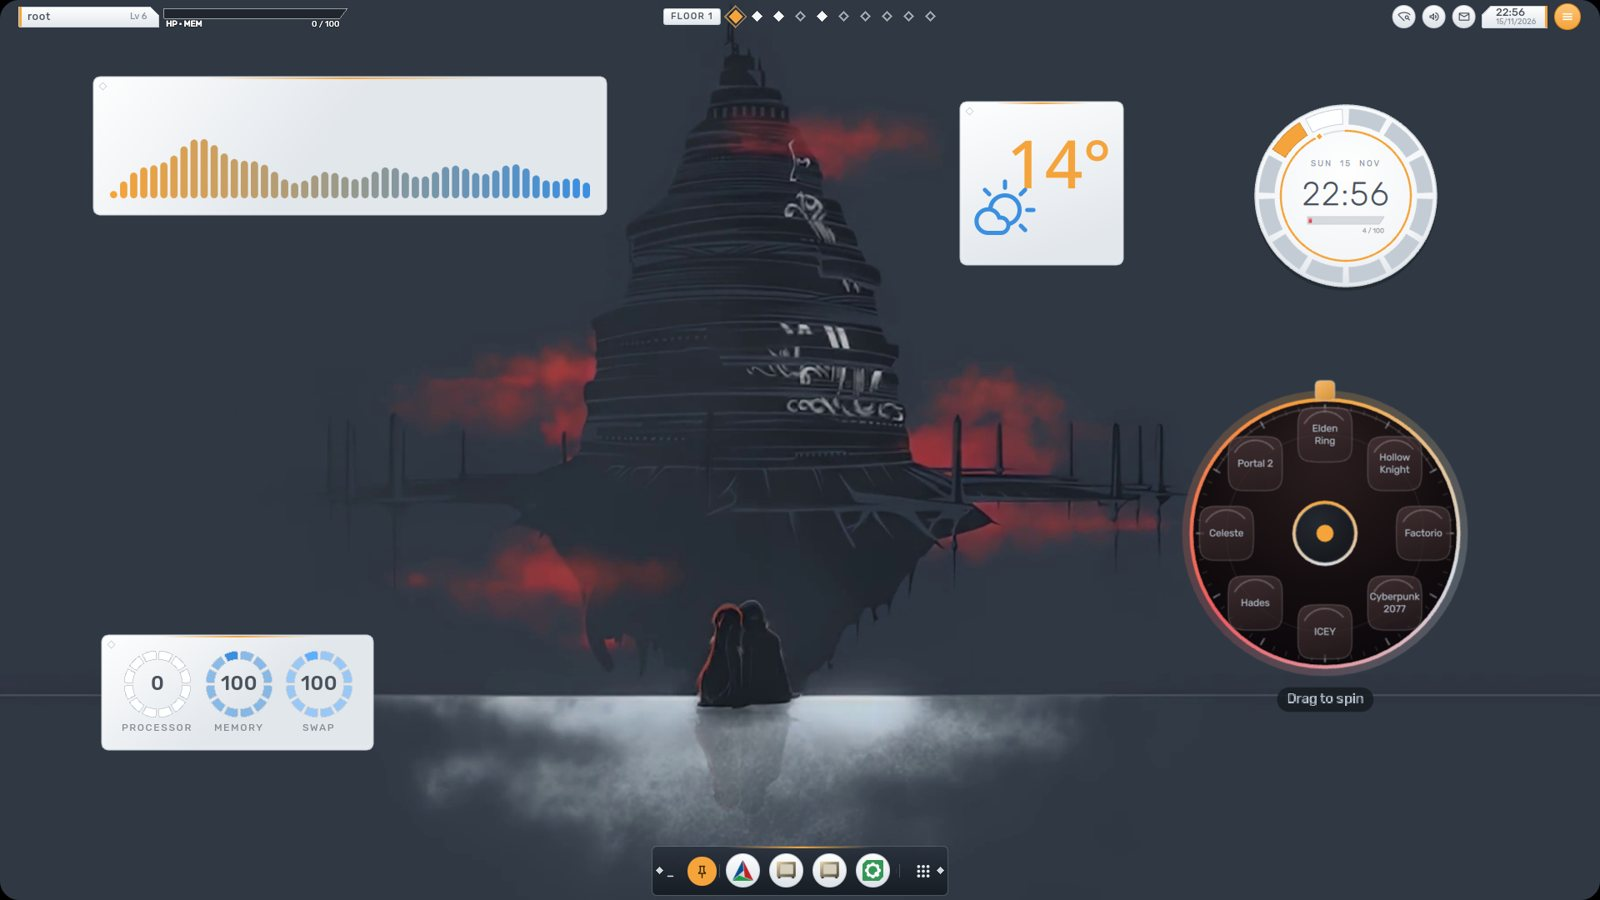
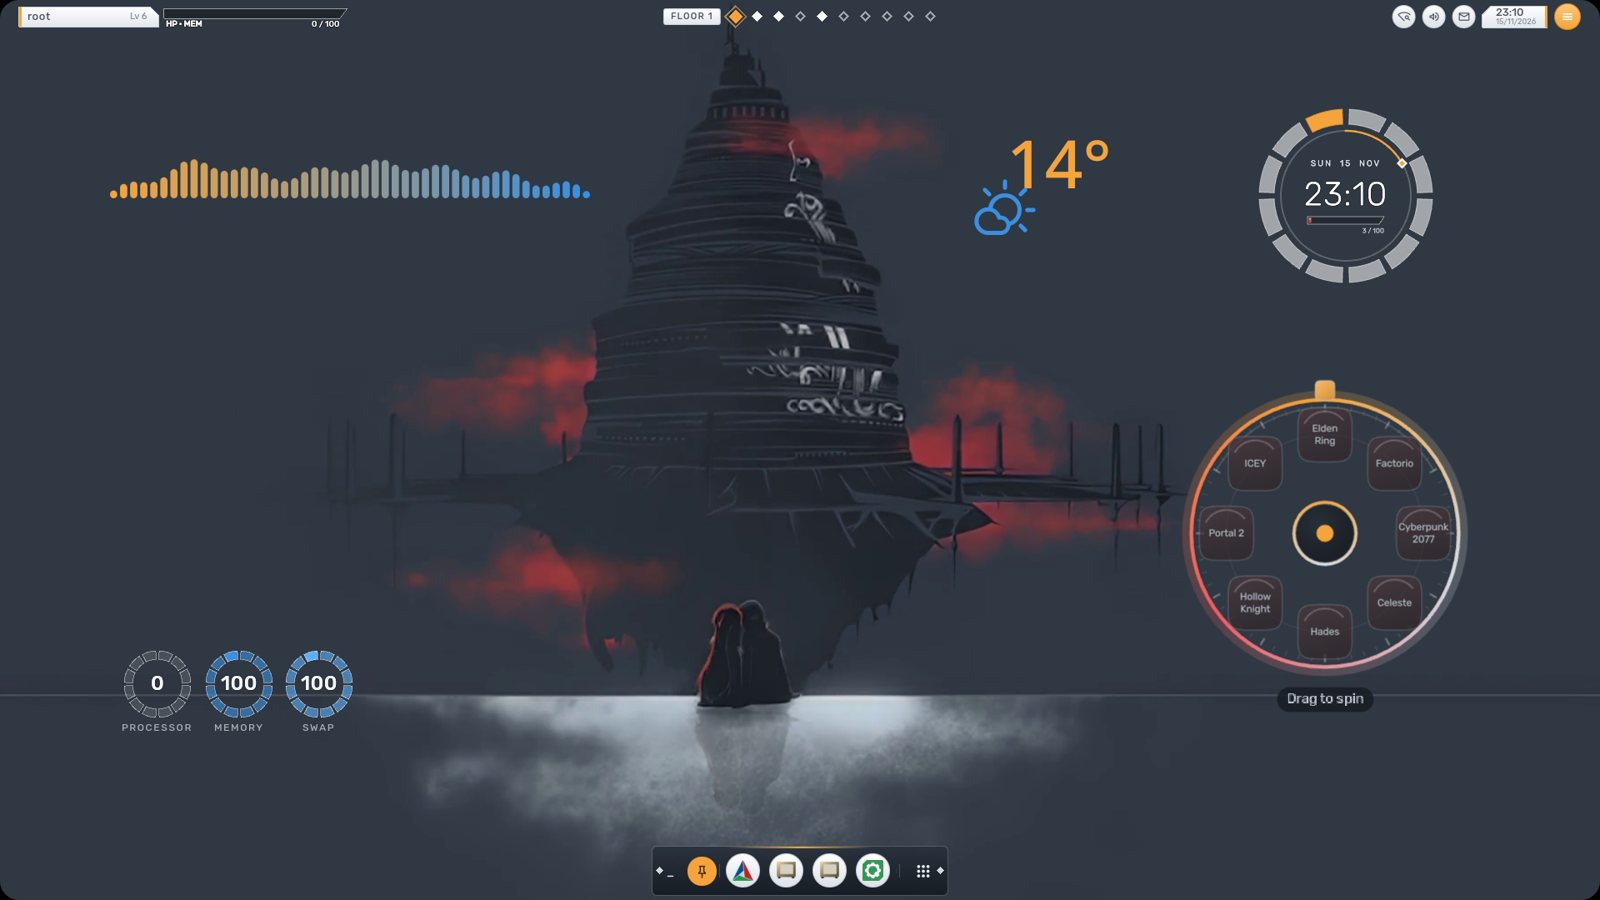
Sword Art Online: the desktop widgets have no background
The widgets stand on the wallpaper like the game's HUD: no card behind the
gauges, spectrum, weather, lyrics or now playing, no disc behind the clock (its
menu tiles and seconds ring are see-through, the time in white), and the
revolver is only its ring, the wallpaper showing through it. Text is the HUD's
white with a faint outline.

Claude-Session: https://claude.ai/code/session_01NkaHfjJdE9Sxe51UTa4nH1

diff --git a/dots/.config/quickshell/ii/modules/ii/background/widgets/clock/ThemeClock.qml b/dots/.config/quickshell/ii/modules/ii/background/widgets/clock/ThemeClock.qml
@@ -17,7 +17,7 @@ import "../revolver/RevolverStyles.js" as Styles
  *          hand, the day above the centre and the time in light digits below it
  *   silence  a black face with a fine red rim that catches light at three and nine, faint dots for the hours,
  *          needle hands, a red hairline for the seconds, an eye with a red iris in the middle, the date below it
- *   sao    Sword Art Online's menu as a dial: a silver disc ringed by twelve menu tiles, the hour's tile lit orange
+ *   sao    Sword Art Online's menu as a dial, on the wallpaper with no face behind it: twelve menu tiles round it, the hour's tile lit orange
  *          and the ones before it filled in, a fine ring that fills with the seconds, an orange diamond riding it,
  *          the time in the middle in the menu's grey, the day above it, and under it the day as a slanted HP bar
  *          that runs green, yellow, then red as the day goes
@@ -521,37 +521,10 @@ Item {
             anchors.fill: parent
             visible: face.kind === "sao"
 
-            readonly property color plate: "#F4F6F8"
-            readonly property color plateEdge: "#C9D0D8"
-            readonly property color ink: "#4A525C"
-            readonly property color inkDim: "#8A939D"
             readonly property color orange: "#F5A43B"
             readonly property int hour12: face.now.getHours() % 12
             // How much of the day is left, for the HP bar.
             readonly property real hp: 1 - (face.now.getHours() * 60 + face.now.getMinutes()) / 1440
-
-            Shape {
-                anchors.fill: parent
-                // A soft shadow, then the silver disc.
-                ShapePath {
-                    strokeWidth: -1
-                    fillColor: face.withAlpha("#000000", 0.22)
-                    PathSvg { path: Styles.circle(face.c, face.c + 4, 110) }
-                }
-                ShapePath {
-                    strokeWidth: 1.4
-                    strokeColor: sao.plateEdge
-                    fillGradient: RadialGradient {
-                        centerX: face.c; centerY: face.c - 30
-                        centerRadius: 150
-                        focalX: face.c; focalY: face.c - 30
-                        GradientStop { position: 0.0; color: "#FFFFFF" }
-                        GradientStop { position: 0.7; color: sao.plate }
-                        GradientStop { position: 1.0; color: "#DCE2E8" }
-                    }
-                    PathSvg { path: Styles.circle(face.c, face.c, 109) }
-                }
-            }
 
             // The twelve menu tiles: the hour's lit orange, the ones before it filled in grey.
             Repeater {
@@ -564,8 +537,8 @@ Item {
                     anchors.fill: parent
                     ShapePath {
                         strokeWidth: 1
-                        strokeColor: tile.now ? Qt.darker(sao.orange, 1.15) : sao.plateEdge
-                        fillColor: tile.now ? sao.orange : tile.past ? "#C3CBD4" : "#FFFFFF"
+                        strokeColor: tile.now ? Qt.darker(sao.orange, 1.15) : face.withAlpha("#FFFFFF", 0.5)
+                        fillColor: tile.now ? sao.orange : tile.past ? face.withAlpha("#FFFFFF", 0.55) : face.withAlpha("#FFFFFF", 0.1)
                         joinStyle: ShapePath.RoundJoin
                         PathSvg { path: Styles.band(face.c, face.c, 86, 104, -90 + tile.index * 30 + 2.4, -90 + (tile.index + 1) * 30 - 2.4) }
                     }
@@ -577,7 +550,7 @@ Item {
                 // The seconds ring: a fine track, filled orange with the seconds (the minutes without them).
                 ShapePath {
                     strokeWidth: 2
-                    strokeColor: face.withAlpha(sao.inkDim, 0.25)
+                    strokeColor: face.withAlpha("#FFFFFF", 0.22)
                     fillColor: "transparent"
                     PathSvg { path: Styles.circle(face.c, face.c, 78) }
                 }
@@ -606,7 +579,9 @@ Item {
                 x: face.c - width / 2
                 y: 70
                 text: Qt.formatDate(face.now, "ddd  d  MMM").toUpperCase()
-                color: sao.inkDim
+                color: "#D5DDE6"
+                style: Text.Outline
+                styleColor: face.withAlpha("#000000", 0.3)
                 font.family: face.fontFamily
                 font.pixelSize: 10
                 font.letterSpacing: 2
@@ -615,7 +590,9 @@ Item {
                 x: face.c - width / 2
                 y: face.c - height / 2 - 2
                 text: face.pad(face.now.getHours()) + ":" + face.pad(face.now.getMinutes())
-                color: sao.ink
+                color: "#FFFFFF"
+                style: Text.Outline
+                styleColor: face.withAlpha("#000000", 0.3)
                 font.family: face.fontFamily
                 font.pixelSize: 40
                 font.weight: Font.Light
@@ -633,8 +610,8 @@ Item {
                     anchors.fill: parent
                     ShapePath {
                         strokeWidth: 1
-                        strokeColor: sao.plateEdge
-                        fillColor: face.withAlpha("#4A525C", 0.18)
+                        strokeColor: face.withAlpha("#FFFFFF", 0.5)
+                        fillColor: face.withAlpha("#000000", 0.25)
                         PathSvg { path: "M 0 0 L 92 0 L 86 9 L 0 9 Z" }
                     }
                 }
@@ -651,7 +628,7 @@ Item {
                 x: face.c + 46 - width
                 y: 152
                 text: Math.round(sao.hp * 100) + " / 100"
-                color: sao.inkDim
+                color: "#D5DDE6"
                 font.family: face.fontFamily
                 font.pixelSize: 8
             }

diff --git a/dots/.config/quickshell/ii/modules/ii/background/widgets/revolver/RevolverStyles.js b/dots/.config/quickshell/ii/modules/ii/background/widgets/revolver/RevolverStyles.js
@@ -22,9 +22,10 @@ var STYLES = {
     // ticks that turn with it, dark glass app-icon chambers (the live one lit ember), and a neon ring round the hub.
     "neo":     { id: "neo", drum: "neo", chamber: "squircle", chamberSize: 46, orbit: 80, names: true,
                  hub: "neo", hammer: "pill", glow: 0.55, waves: 0, statusLabel: true },
-    // Sword Art Online: the same smoked disc, its ring running the menu's orange into crimson and silver.
+    // Sword Art Online: HyperNeo's ring with no disc inside it (bare), so the wallpaper shows through, running the
+    // menu's orange into crimson and silver.
     "sao":     { id: "sao", drum: "neo", chamber: "squircle", chamberSize: 46, orbit: 80, names: true,
-                 hub: "neo", hammer: "pill", glow: 0.55, waves: 0, statusLabel: true, third: "#D5DDE6" },
+                 hub: "neo", hammer: "pill", glow: 0.55, waves: 0, statusLabel: true, third: "#D5DDE6", bare: true },
     // The anime themes: squircles, drawn as keycaps (outline, a cream ring, a flat fill, a hard shadow straight down).
     "keycap":  { id: "keycap", drum: "squircle", plate: "keycap", chamber: "squircle", chamberSize: 48, orbit: 79, names: true,
                  hub: "squircle", hammer: "pill", glow: 0.45, waves: 0, statusLabel: true },
@@ -39,8 +40,8 @@ var STYLES = {
     // Silence's cards: near-black, a faint edge, and a red hairline along the bottom, brightest in the middle.
     "hush":    { id: "hush", drum: "squircle", plate: "hush", chamber: "squircle", chamberSize: 48, orbit: 79, names: true,
                  hub: "squircle", hammer: "pill", glow: 0.6, waves: 0, statusLabel: true },
-    // Sword Art Online's cards: the game's menu panels, pale silver in a fine grey edge, an orange rule along the top
-    // and a white notch at its left end.
+    // Sword Art Online: no card at all, the widgets stand on the wallpaper like the game's HUD (plate "sao" draws
+    // nothing).
     "sao-panel": { id: "sao-panel", drum: "panel", plate: "sao", chamber: "squircle", chamberSize: 48, orbit: 79, names: true,
                    hub: "squircle", hammer: "pill", glow: 0.45, waves: 0, statusLabel: true, base: "#F4F6F8", edge: "#C9D0D8" },
     "hsr":     { id: "hsr", drum: "rail", chamber: "star", chamberSize: 52, orbit: 80, names: true,
@@ -232,9 +233,9 @@ var LOOKS = {
                   caps: true, spacing: 1.2, colorA: "", colorB: "", text: "#141414", glow: "" },
     "keycap-dark": { id: "keycap-dark", family: "keycap", gauge: "key", bars: "blocks", progress: "blocks", lyric: "key",
                      caps: true, spacing: 0.8, colorA: "", colorB: "", text: "#f1ece2", glow: "" },
-    // Sword Art Online: the menu's grey on silver, orange for what is lit, its blue for the second colour.
+    // Sword Art Online: the HUD's white on the wallpaper, orange for what is lit, its blue for the second colour.
     "sao-panel": { id: "sao-panel", gauge: "tiles", bars: "pill", progress: "hp", lyric: "plain",
-                   caps: true, spacing: 1.6, colorA: "#F5A43B", colorB: "#3B8FE0", text: "#4A525C", glow: "#F5A43B" },
+                   caps: true, spacing: 1.6, colorA: "#F5A43B", colorB: "#3B8FE0", text: "#F4F6F8", glow: "#F5A43B" },
     // Silence: thin and spaced, red light on black.
     "hush":     { id: "hush", gauge: "ring", bars: "needle", progress: "line", lyric: "plain",
                   caps: true, spacing: 2.4, colorA: "", colorB: "", text: "#ede6e6", glow: "" }

diff --git a/dots/.config/quickshell/ii/modules/ii/background/widgets/ThemedGauge.qml b/dots/.config/quickshell/ii/modules/ii/background/widgets/ThemedGauge.qml
@@ -124,10 +124,10 @@ ColumnLayout {
                 anchors.fill: face
                 ShapePath {
                     strokeWidth: 1
-                    strokeColor: gauge.look.edge
-                    fillColor: menuTile.index < menuTile.lit - 1 ? Qt.rgba(gauge.accent.r, gauge.accent.g, gauge.accent.b, 0.55)
+                    strokeColor: Qt.rgba(1, 1, 1, 0.45)
+                    fillColor: menuTile.index < menuTile.lit - 1 ? Qt.rgba(gauge.accent.r, gauge.accent.g, gauge.accent.b, 0.6)
                              : menuTile.index === menuTile.lit - 1 ? gauge.accent
-                             : "#FFFFFF"
+                             : Qt.rgba(1, 1, 1, 0.12)
                     joinStyle: ShapePath.RoundJoin
                     PathSvg {
                         path: Styles.band(gauge.size / 2, gauge.size / 2, gauge.size / 2 - 11, gauge.size / 2 - 1,
@@ -195,8 +195,8 @@ ColumnLayout {
             font.weight: gauge.kind === "key" ? Font.Black : Font.Medium
             color: gauge.look.text
             font.letterSpacing: gauge.kind === "tiles" ? 0.5 : 0
-            style: gauge.kind === "glow" ? Text.Raised : gauge.kind === "key" ? Text.Outline : Text.Normal
-            styleColor: gauge.kind === "glow" ? gauge.look.glow : gauge.look.edge
+            style: gauge.kind === "glow" ? Text.Raised : gauge.kind === "key" || gauge.kind === "tiles" ? Text.Outline : Text.Normal
+            styleColor: gauge.kind === "glow" ? gauge.look.glow : gauge.kind === "tiles" ? Qt.rgba(0, 0, 0, 0.35) : gauge.look.edge
         }
     }
     StyledText {

diff --git a/dots/.config/quickshell/ii/modules/ii/background/widgets/ThemedPlate.qml b/dots/.config/quickshell/ii/modules/ii/background/widgets/ThemedPlate.qml
@@ -10,8 +10,8 @@ import "revolver/RevolverStyles.js" as Styles
  *   kind "disc"   a clock face: a glowing ring (Red Sun), a cut glass octagon (glass themes), a squircle (HyperNeo),
  *                 a gold rail (Star Rail), a keycap (the anime themes; Manga Ink Dark's in negative), a hush (Silence)
  *   kind "card"   a card: a dusk capsule with an ember edge, a cut stone, a squircle card, a gold-framed card, a keycap,
- *                 Silence's near-black card with a red hairline, or a Sword Art Online menu panel (silver, a fine
- *                 grey edge, an orange rule along the top and a white notch)
+ *                 or Silence's near-black card with a red hairline. Sword Art Online has none: its widgets stand on
+ *                 the wallpaper.
  *
  * Drawn with QtQuick.Shapes only, in one multisampled layer, so it is smooth on any Qt 6.
  */
@@ -56,7 +56,7 @@ Item {
 
     Item {
         id: surface
-        visible: !plate.manga
+        visible: !plate.manga && !plate.sao
         x: -plate.pad
         y: -plate.pad
         width: plate.width + 2 * plate.pad

diff --git a/dots/.config/quickshell/ii/modules/ii/background/widgets/revolver/RevolverDrum.qml b/dots/.config/quickshell/ii/modules/ii/background/widgets/revolver/RevolverDrum.qml
@@ -117,7 +117,7 @@ Item {
             // A soft shadow under solid plates.
             Shape {
                 anchors.fill: parent
-                visible: !drum.redSun && drum.style.drum !== "facets"
+                visible: !drum.redSun && drum.style.drum !== "facets" && !drum.style.bare
                 opacity: 0.32
                 y: 5
                 ShapePath {
@@ -176,7 +176,8 @@ Item {
                         GradientStop { position: 0.55; color: "#150e10" }
                         GradientStop { position: 1.0; color: "#09060a" }
                     }
-                    PathSvg { path: Styles.circle(drum.c, drum.c, 108) }
+                    // A bare drum (Sword Art Online) has only its ring: the wallpaper shows through.
+                    PathSvg { path: drum.style.bare ? "" : Styles.circle(drum.c, drum.c, 108) }
                 }
                 // The glow: two faint bands outside the ring.
                 ShapePath {

diff --git a/dots/.config/quickshell/ii/modules/ii/background/widgets/ThemedProgress.qml b/dots/.config/quickshell/ii/modules/ii/background/widgets/ThemedProgress.qml
@@ -86,8 +86,8 @@ Item {
             anchors.fill: parent
             ShapePath {
                 strokeWidth: 1
-                strokeColor: bar.look.edge
-                fillColor: Qt.rgba(bar.look.text.r, bar.look.text.g, bar.look.text.b, 0.14)
+                strokeColor: Qt.rgba(1, 1, 1, 0.5)
+                fillColor: Qt.rgba(0, 0, 0, 0.25)
                 PathSvg { path: `M 0 0 L ${bar.width} 0 L ${bar.width - hp.slant} ${bar.height} L 0 ${bar.height} Z` }
             }
         }

diff --git a/tests/test_halcyon_sao_widgets.py b/tests/test_halcyon_sao_widgets.py
@@ -1,5 +1,5 @@
-"""The Sword Art Online theme's desktop widgets: silver menu-panel cards, tile gauges, an HP-bar progress line and
-a clock face of its own. Run: python3 -m unittest discover -s tests"""
+"""The Sword Art Online theme's desktop widgets: no background (they stand on the wallpaper), tile gauges, an HP-bar
+progress line, a clock of its own and a revolver that is only its ring. Run: python3 -m unittest discover -s tests"""
 
 import unittest
 from pathlib import Path
@@ -11,13 +11,17 @@ GAUGE = (W / "ThemedGauge.qml").read_text()
 PROGRESS = (W / "ThemedProgress.qml").read_text()
 CLOCK = (W / "clock/ThemeClock.qml").read_text()
 COOKIE = (W / "clock/CookieClock.qml").read_text()
+DRUM = (W / "revolver/RevolverDrum.qml").read_text()
 
 
 class SaoWidgetsTest(unittest.TestCase):
-    def test_the_theme_has_its_own_cards_not_silences(self):
+    def test_the_widgets_have_no_background(self):
         self.assertIn('case "sword-art-online":\n        return STYLES["sao-panel"];', STYLES)
         self.assertIn('plate: "sao"', STYLES)
-        self.assertIn('readonly property bool sao: style.plate === "sao"', PLATE)
+        self.assertIn("visible: !plate.manga && !plate.sao", PLATE)
+        self.assertNotIn("Styles.circle(face.c, face.c, 109)", CLOCK)
+        self.assertIn('third: "#D5DDE6", bare: true', STYLES)
+        self.assertIn('drum.style.bare ? "" : Styles.circle(drum.c, drum.c, 108)', DRUM)
 
     def test_its_look_uses_tiles_and_the_hp_bar(self):
         self.assertIn('"sao-panel": { id: "sao-panel", gauge: "tiles", bars: "pill", progress: "hp"', STYLES)

diff --git a/README.md b/README.md
@@ -272,7 +272,7 @@ style, animations, wallpaper and, for some, shell layout and effects:
 | **After ICEY** | `after-icey` | Silver hair, cyan light and ink-dark navy, over the animated *After ICEY* wallpaper (fan art, by way of [MotionBGs](https://motionbgs.com/after-icey)). `halcyon wallpapers get after-icey` fetches it. |
 | **Manga Ink** | `manga-ink` | Black ink on paper with a blush accent, the whole desktop drawn like a manga page: a light theme whose top bar, side panels, cards and dock are all paper panels in thick ink borders, with hard shadows and screentone, over the animated *Anime Girl x Cat* wallpaper by fw_storm ([DesktopHut](https://www.desktophut.com/anime-girl-x-cat-pl2s)). The site gives the file out from its page: download it there, then `halcyon wallpapers import anime-girl-cat FILE`. |
 | **Manga Ink Dark** | `manga-ink-dark` | Manga Ink in negative: paper-white ink on a black page, the blush kept. Its wallpaper is Manga Ink's, inverted on your computer the first time you apply it (light to dark with the colours kept: ffmpeg's `negate,hue=h=180`). The cards, dock, bar, revolver and clock are ink panels with paper lines. |
-| **Sword Art Online** | `sword-art-online` | Aincrad at dusk: slate fog, crimson clouds, and the game's own main menu in place of the overview (below). The menu's orange and white over the animated *Twilight Aincrad* wallpaper (fan art, by way of [MotionBGs](https://motionbgs.com/twilight-aincrad)), fetched when the theme is first applied (1.5 MB; `halcyon wallpapers get twilight-aincrad --4k` for the 4K one). A slate HUD bar and dock with an orange rule, desktop cards drawn as the game's silver menu panels (gauges as rings of menu tiles, progress as its slanted HP bar), a clock face that is the menu as a dial (the hour's tile lit orange, the day as an HP bar), and a smoked-glass revolver whose ring runs orange into crimson and silver. |
+| **Sword Art Online** | `sword-art-online` | Aincrad at dusk: slate fog, crimson clouds, and the game's own main menu in place of the overview (below). The menu's orange and white over the animated *Twilight Aincrad* wallpaper (fan art, by way of [MotionBGs](https://motionbgs.com/twilight-aincrad)), fetched when the theme is first applied (1.5 MB; `halcyon wallpapers get twilight-aincrad --4k` for the 4K one). A slate HUD bar and dock with an orange rule, desktop widgets with no background, standing on the wallpaper like the game's HUD (gauges as rings of menu tiles, progress as its slanted HP bar), a clock that is the menu as a dial (the hour's tile lit orange, the day as an HP bar), and a revolver that is only its ring, running orange into crimson and silver. |
 | **Silence** | `silence` | Black, and a face in the dark with red eyes. A still wallpaper (from [wallhaven](https://wallhaven.cc/w/6ll7dx), artist unknown), fetched when the theme is first applied. Everything else stays out of its way: near-black cards with a red hairline, a dock with two small red eyes that slowly open and close, a revolver with almond eye chambers and a red-eyed hub, a clock of needles round an eye, and slow, quiet animations. |
 
 ![HyperNeo, Star Rail, Shattered Glass and Fractured Glass, each with its wallpaper, its revolver, and Firefox in its colours](docs/assets/preview-themes.jpg)
@@ -296,7 +296,7 @@ above fetch or import them.</sub>
 <sub>Silence and Manga Ink Dark. Wallpapers: Silence's from [wallhaven](https://wallhaven.cc/w/6ll7dx) (artist
 unknown); Manga Ink Dark's is *Anime Girl x Cat* by fw_storm, inverted. Neither is included.</sub>
 
-![Sword Art Online: Aincrad at dusk, the silver menu-panel cards, the menu-dial clock, the HUD dock and the orange-and-crimson revolver](docs/assets/preview-sao-desktop.jpg)
+![Sword Art Online: Aincrad at dusk, the widgets standing on the wallpaper, the menu-dial clock, the HUD dock and the orange-and-crimson revolver ring](docs/assets/preview-sao-desktop.jpg)
 
 <sub>Sword Art Online. Wallpaper: *Twilight Aincrad*, fan art via [MotionBGs](https://motionbgs.com/twilight-aincrad);
 not included, fetched when the theme is applied.</sub>
